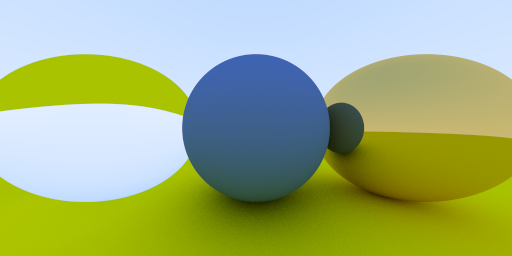
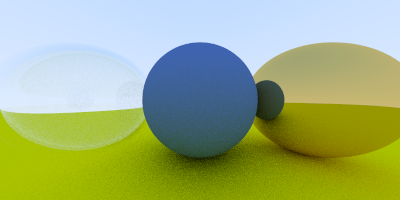
dielectric 개선

Changed region(s): [[0.0, 0.54, 0.39, 0.81], [0.0, 0.21, 0.39, 0.45]]

diff --git a/src/dielectric.java b/src/dielectric.java
@@ -8,20 +8,30 @@ public class dielectric implements material {
         float ni_over_nt;
         out_attenuation.copy(new vec3(1, 1, 1));
         vec3 refracted = new vec3();
+        float reflect_prob;
+        float cosine;
         if (r_in.dir.dot(rec.normal) > 0) {
             outward_normal = rec.normal.inverse();
             ni_over_nt = ref_idx;
+            cosine = ref_idx * r_in.dir.dot(rec.normal) / r_in.dir.size();
         }
         else {
             outward_normal = rec.normal;
             ni_over_nt = 1 / ref_idx;
+            cosine = -r_in.dir.dot(rec.normal) / r_in.dir.size();
         }
         if (math.refract(r_in.dir, outward_normal, ni_over_nt, refracted)) {
-            out_scattered.copy(new ray(rec.p, refracted));
+            reflect_prob = math.schlick(cosine, ref_idx);
         }
         else {
             out_scattered.copy(new ray(rec.p, reflected));
-            return false;
+            reflect_prob = 1;
+        }
+        if ((float)Math.random() < reflect_prob) {
+            out_scattered.copy(new ray(rec.p, reflected));
+        }
+        else {
+            out_scattered.copy(new ray(rec.p, refracted));
         }
         return true;
     }

diff --git a/src/ORTRenderer.java b/src/ORTRenderer.java
@@ -8,11 +8,11 @@ import javax.imageio.ImageIO;
 
 public class ORTRenderer {
     public static void main(String[] args) {
-        int nx = 512;
-        int ny = 256;
-        int ns = 1000;
+        int nx = 400;
+        int ny = 200;
+        int ns = 100;
 
-        hitable list[] = new hitable[4];
+        hitable list[] = new hitable[5];
         list[0] = new sphere(new vec3(0, 0, -1), .5f,
                 new lambertian(new vec3(.1f, .2f, .5f)));
         list[1] = new sphere(new vec3(0, -100.5f, -1), 100,
@@ -20,6 +20,8 @@ public class ORTRenderer {
         list[2] = new sphere(new vec3(1, 0, -1), .5f,
                 new metal(new vec3(.8f, .6f, .2f), 0));
         list[3] = new sphere(new vec3(-1, 0, -1), .5f,
+                new dielectric(1.5f));
+        list[4] = new sphere(new vec3(-1, 0, -1), -.45f,
                 new dielectric(1.5f));
 
         hitable world = new hitable_list(list);

diff --git a/src/math.java b/src/math.java
@@ -27,4 +27,10 @@ public class math {
         }
         return false;
     }
+
+    static float schlick(float cosine, float ref_idx) {
+        float r0 = (1-ref_idx) / (1+ref_idx);
+        r0 *= r0;
+        return r0 + (1 - r0) * (float)Math.pow(1 - cosine, 5);
+    }
 }
